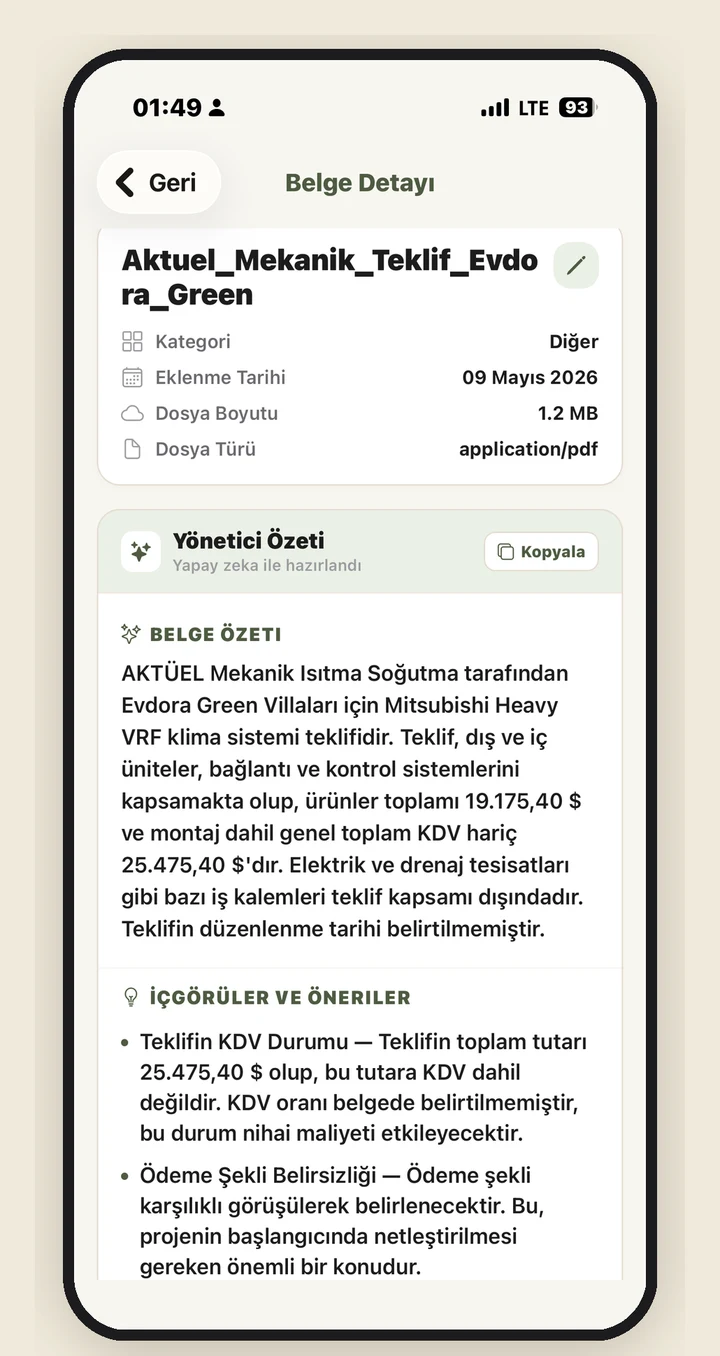
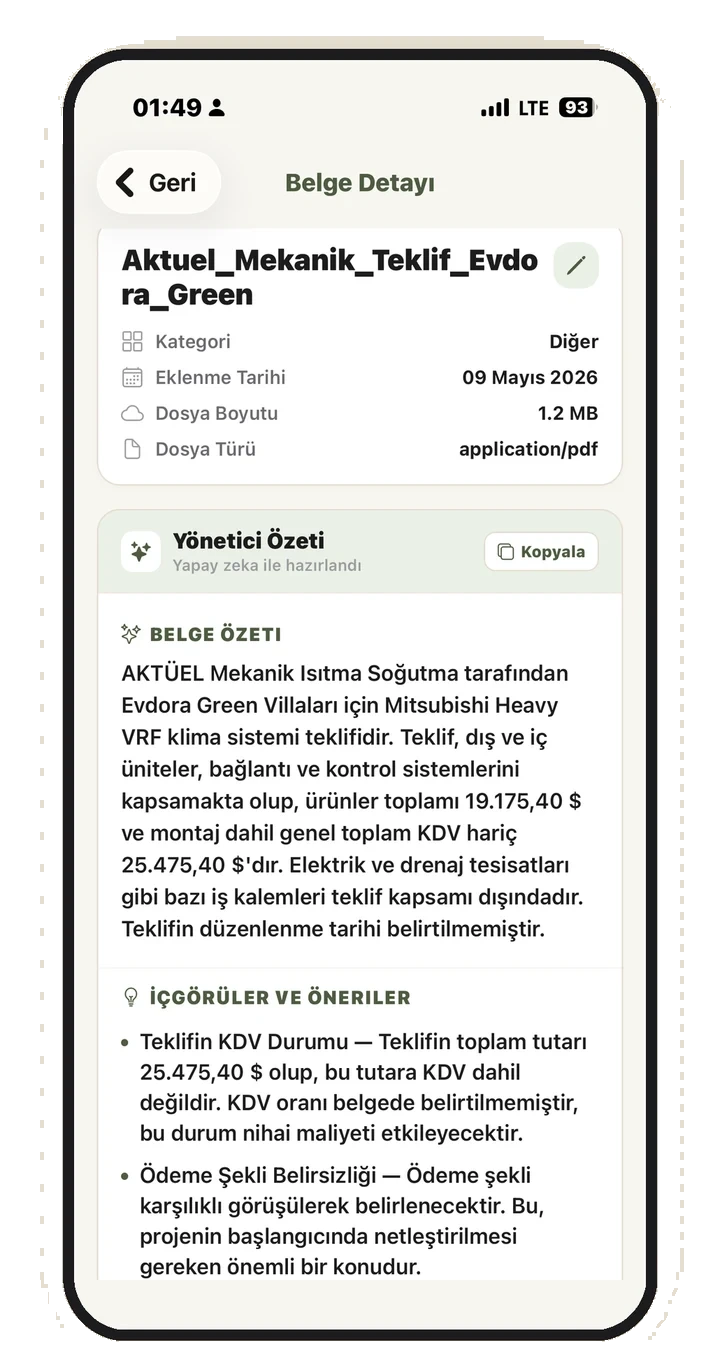
fix(3d-phone): transparent phone margins + realistic emerge choreography
Root cause of the "cropping" issues: the source webps are inconsistent — a
single texture crop couldn't fit them and distorted/mis-cropped. Fixed at the
asset level instead:
- processed all 12 phone webps: flood-fill the cream margin to transparent
  (dimensions unchanged 720×1356), so the device shows cleanly on any
  background with no crop math, no distortion, no rectangle
- 3D planes (Hero + HowItWorks): removed the texture repeat/offset crop;
  plane at the image aspect; transparent material
- Screenshots cards: object-contain over the transparent device
- Hero choreography: the phone is scaled to 0 (invisible) until the lid is
  fully open, then emerges (scale + small rise) — it can no longer poke
  through the closed lid. revertOnUpdate guards the reduced-motion flip.

NOTE: the source webps are stylistically inconsistent (01/02/04/06 have a
titanium device frame; 03/05 are frameless) — a separate issue to resolve.

Build green (26 routes), lint clean. (originals backed up in /tmp/phone-backup)

Changed region(s): [[0.0, 0.0, 1.0, 1.0]]

diff --git a/components/three/hero-vault/Scene.tsx b/components/three/hero-vault/Scene.tsx
@@ -59,16 +59,20 @@ export default function Scene({ locale }: { locale: string }) {
       tl.to(lid.rotation, { x: LID_OPEN_X, duration: 1.0 }, 0.6);
       // 0.8–1.6s — inner light blooms
       tl.fromTo(light, { intensity: 0 }, { intensity: INNER_LIGHT_MAX, duration: 0.8 }, 0.8);
-      // 1.4–2.4s — phone rises out
-      tl.from(phone.position, { y: -0.8, duration: 1.0, ease: "back.out(1.4)" }, 1.4);
-      // 2.6s onward — idle float
+      // 1.7s — phone emerges AFTER the lid is fully open. It's scaled to 0
+      // (invisible) until then, so it can never poke through the closed lid.
+      tl.from(phone.scale, { x: 0, y: 0, z: 0, duration: 0.9, ease: "back.out(1.5)" }, 1.7);
+      tl.from(phone.position, { y: PHONE_REST_Y - 0.7, duration: 0.9, ease: "power3.out" }, 1.7);
+      // idle float
       tl.to(
         phone.position,
         { y: `+=0.12`, duration: 4, ease: "sine.inOut", yoyo: true, repeat: -1 },
-        2.6,
+        2.8,
       );
     },
-    { dependencies: [reduced] },
+    // revertOnUpdate so the reduced-motion hydration flip can't leave the
+    // phone stuck at scale 0 (invisible).
+    { dependencies: [reduced], revertOnUpdate: true },
   );
 
   // Subtle mouse head-tracking + battery-friendly pause when hidden.

diff --git a/components/Screenshots.tsx b/components/Screenshots.tsx
@@ -79,13 +79,13 @@ export default function Screenshots() {
                   className="group block w-60 sm:w-72 lg:w-80 cursor-zoom-in rounded-[1.9rem] bg-surface-elevated ring-1 ring-border-warm shadow-warm-lg p-3 transition-all duration-300 hover:-translate-y-1.5 hover:shadow-warm-xl focus-visible:outline-none focus-visible:ring-2 focus-visible:ring-primary focus-visible:ring-offset-4 focus-visible:ring-offset-background"
                   aria-label={t(`items.${key}.alt`)}
                 >
-                  <div className="relative w-full aspect-[720/1328] overflow-hidden rounded-[1.4rem]">
+                  <div className="relative w-full aspect-[720/1356] overflow-hidden rounded-[1.4rem]">
                     <Image
                       src={`/phone/${locale}/${SHOT_IMAGES[key]}.webp`}
                       alt={t(`items.${key}.alt`)}
                       fill
                       sizes="(min-width: 1024px) 320px, 280px"
-                      className="object-cover"
+                      className="object-contain"
                     />
                   </div>
                   <figcaption className="mt-3 pb-1 text-center text-sm font-medium text-text-secondary tracking-wide">

diff --git a/components/three/how-it-works/PhoneStage.tsx b/components/three/how-it-works/PhoneStage.tsx
@@ -44,12 +44,7 @@ export default function PhoneStage({
     STEP_IMAGES.map((id) => `/phone/${locale}/${id}.webp`),
     (texs) => {
       const arr = Array.isArray(texs) ? texs : [texs];
-      for (const tex of arr) {
-        tex.colorSpace = SRGBColorSpace;
-        // crop the cream margin so only the device shows (no extra frame)
-        tex.repeat.set(0.85, 0.95);
-        tex.offset.set(0.075, 0.025);
-      }
+      for (const tex of arr) tex.colorSpace = SRGBColorSpace;
     },
   );
 
@@ -94,12 +89,12 @@ export default function PhoneStage({
     <group ref={phoneRef}>
       {/* settled screen — the webp is the phone; no extra 3D body/frame */}
       <mesh position={[0, 0, 0]}>
-        <planeGeometry args={[1.55, 3.2]} />
+        <planeGeometry args={[1.7, 3.2]} />
         <meshBasicMaterial ref={matA} map={screens[0]} toneMapped={false} transparent />
       </mesh>
       {/* incoming screen (quick fade) */}
       <mesh position={[0, 0, 0.01]}>
-        <planeGeometry args={[1.55, 3.2]} />
+        <planeGeometry args={[1.7, 3.2]} />
         <meshBasicMaterial ref={matB} map={screens[1]} transparent opacity={0} toneMapped={false} />
       </mesh>
     </group>

diff --git a/components/three/hero-vault/Phone.tsx b/components/three/hero-vault/Phone.tsx
@@ -5,25 +5,18 @@ import { useTexture } from "@react-three/drei";
 
 type Props = { locale: string };
 
-// The webp already IS a phone (titanium frame + UI) on a cream margin, so we
-// add NO 3D body (that produced an ugly double black frame). We just show the
-// image on a plane and crop the cream margin away via texture repeat/offset so
-// only the device shows.
-const CROP_REPEAT: [number, number] = [0.85, 0.95];
-const CROP_OFFSET: [number, number] = [0.075, 0.025];
-
+// The webp is the phone on a now-transparent margin, so we just map it onto a
+// plane at the image's aspect (720×1356). No 3D body, no crop math.
 export default function Phone({ locale }: Props) {
   const screen = useTexture(`/phone/${locale}/01-vault.webp`, (tex) => {
     const t = Array.isArray(tex) ? tex[0] : tex;
     t.colorSpace = SRGBColorSpace;
-    t.repeat.set(...CROP_REPEAT);
-    t.offset.set(...CROP_OFFSET);
   });
 
   return (
     <mesh>
-      <planeGeometry args={[1.55, 3.2]} />
-      <meshBasicMaterial map={screen} toneMapped={false} transparent />
+      <planeGeometry args={[1.7, 3.2]} />
+      <meshBasicMaterial map={screen} transparent toneMapped={false} />
     </mesh>
   );
 }
